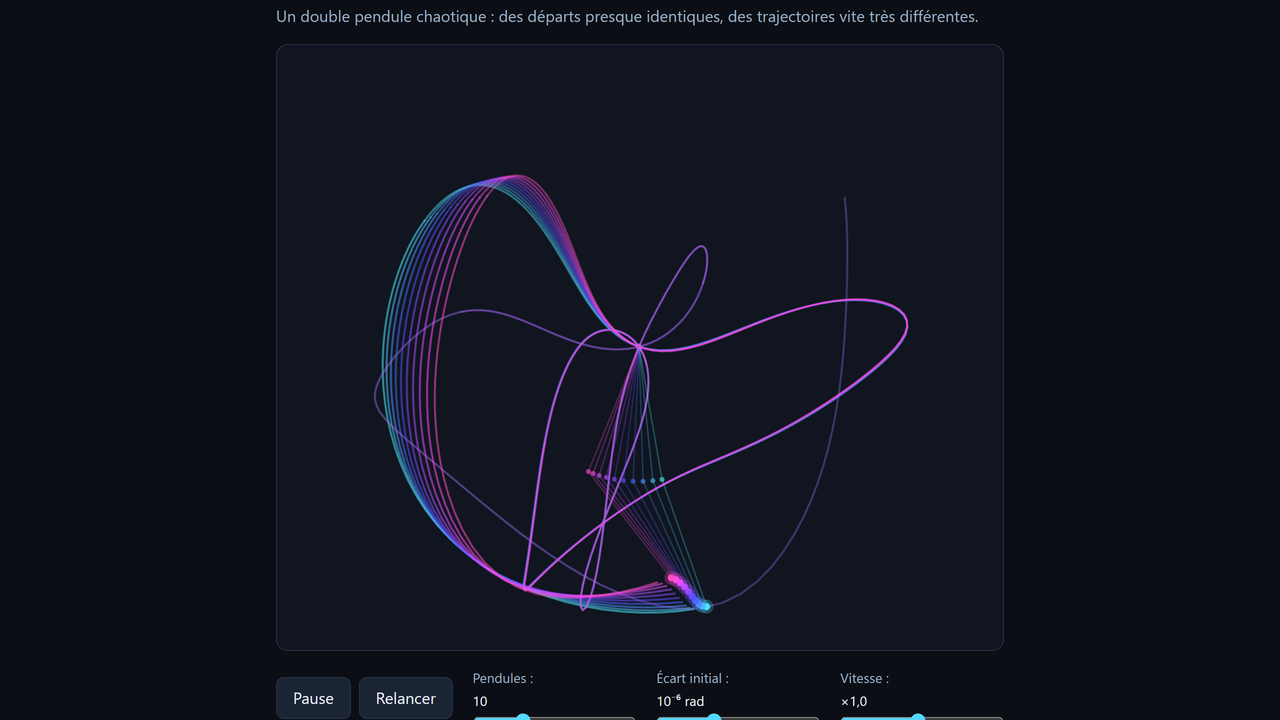
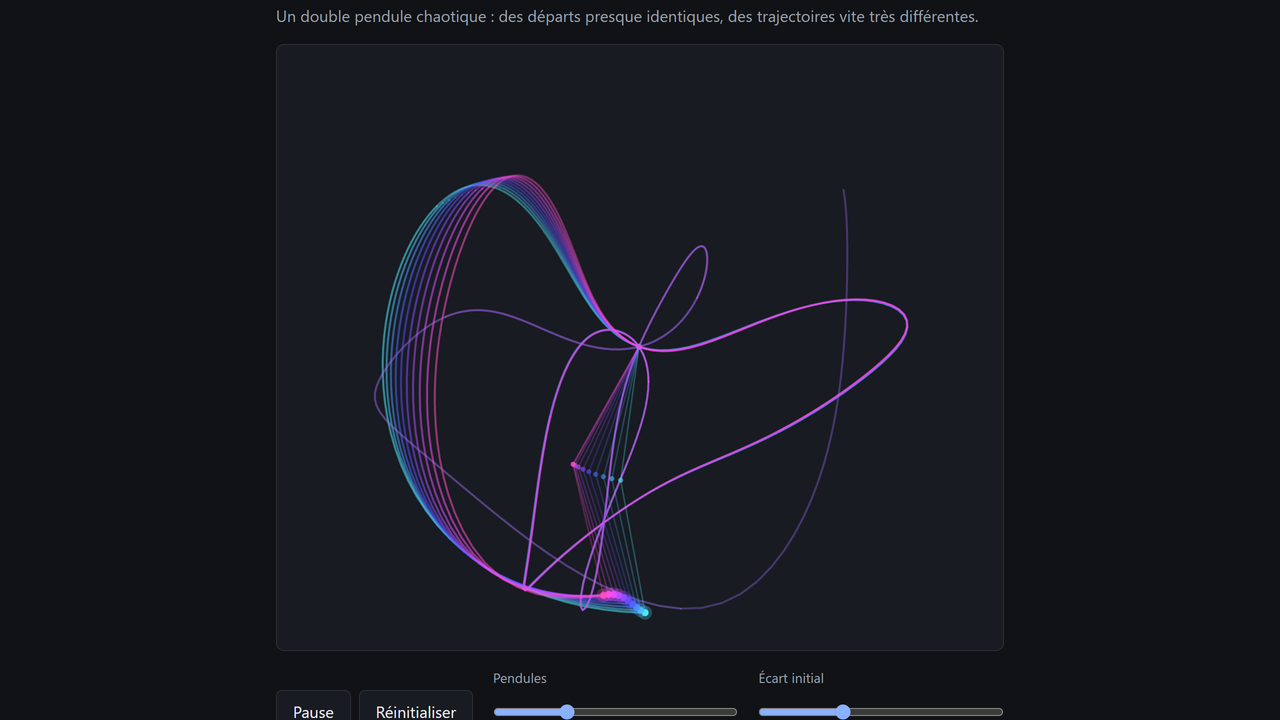
content: refresh demo covers after the UI charter
Recapture the six covers with the unified chrome and update the
effet-papillon coverAlt (« Relancer » became « Réinitialiser »).

Claude-Session: https://claude.ai/code/session_01XJTGEqG5R5AxiqF1LLdPM5

Changed region(s): [[0.2188, 0.9167, 0.7812, 1.0], [0.4375, 0.4889, 0.5625, 0.8556]]

diff --git a/src/content/projects/effet-papillon/en.md b/src/content/projects/effet-papillon/en.md
@@ -3,7 +3,7 @@
 # Claude drafts this from Arthur's French, Arthur reviews.
 title: 'Effet Papillon'
 summary: 'Pendulums released from almost the same spot: at first they dance together, a few seconds later each goes its own way. The butterfly effect, live.'
-coverAlt: 'Demo on a dark background: ten nearly identical double pendulums, their still-overlapping trails drawing a ribbon fading from turquoise to pink, while one pendulum that has already diverged traces its own wide purple loops; at the bottom, the Pause and Restart buttons and the settings sliders.'
+coverAlt: 'Demo on a dark background: ten nearly identical double pendulums, their still-overlapping trails drawing a ribbon fading from turquoise to pink, while one pendulum that has already diverged traces its own wide purple loops; at the bottom, the Pause and Reset buttons and the settings sliders.'
 aiNote: 'Built by directing an AI: I set the frame, tested and made the calls; it wrote most of the code.'
 ---
 

diff --git a/src/content/projects/effet-papillon/fr.md b/src/content/projects/effet-papillon/fr.md
@@ -15,7 +15,7 @@ demo: internal # la démo vit dans demos/effet-papillon/
 links:
   repo: 'https://github.com/Arthur-Lecomte/Effet-Papillon'
 cover: ./cover.png
-coverAlt: "Démo sur fond sombre : dix pendules doubles presque identiques, dont les traînées encore superposées dessinent un ruban dégradé du turquoise au rose, tandis qu'un pendule déjà divergé trace à part de grandes boucles violettes ; en bas, les boutons Pause et Relancer et les curseurs de réglage."
+coverAlt: "Démo sur fond sombre : dix pendules doubles presque identiques, dont les traînées encore superposées dessinent un ruban dégradé du turquoise au rose, tandis qu'un pendule déjà divergé trace à part de grandes boucles violettes ; en bas, les boutons Pause et Réinitialiser et les curseurs de réglage."
 featured: false
 draft: false # publié le 2026-11-24 sur décision d'Arthur
 thirdParty: [] # rien d'embarqué : JavaScript pur, tout est dessiné au canvas
